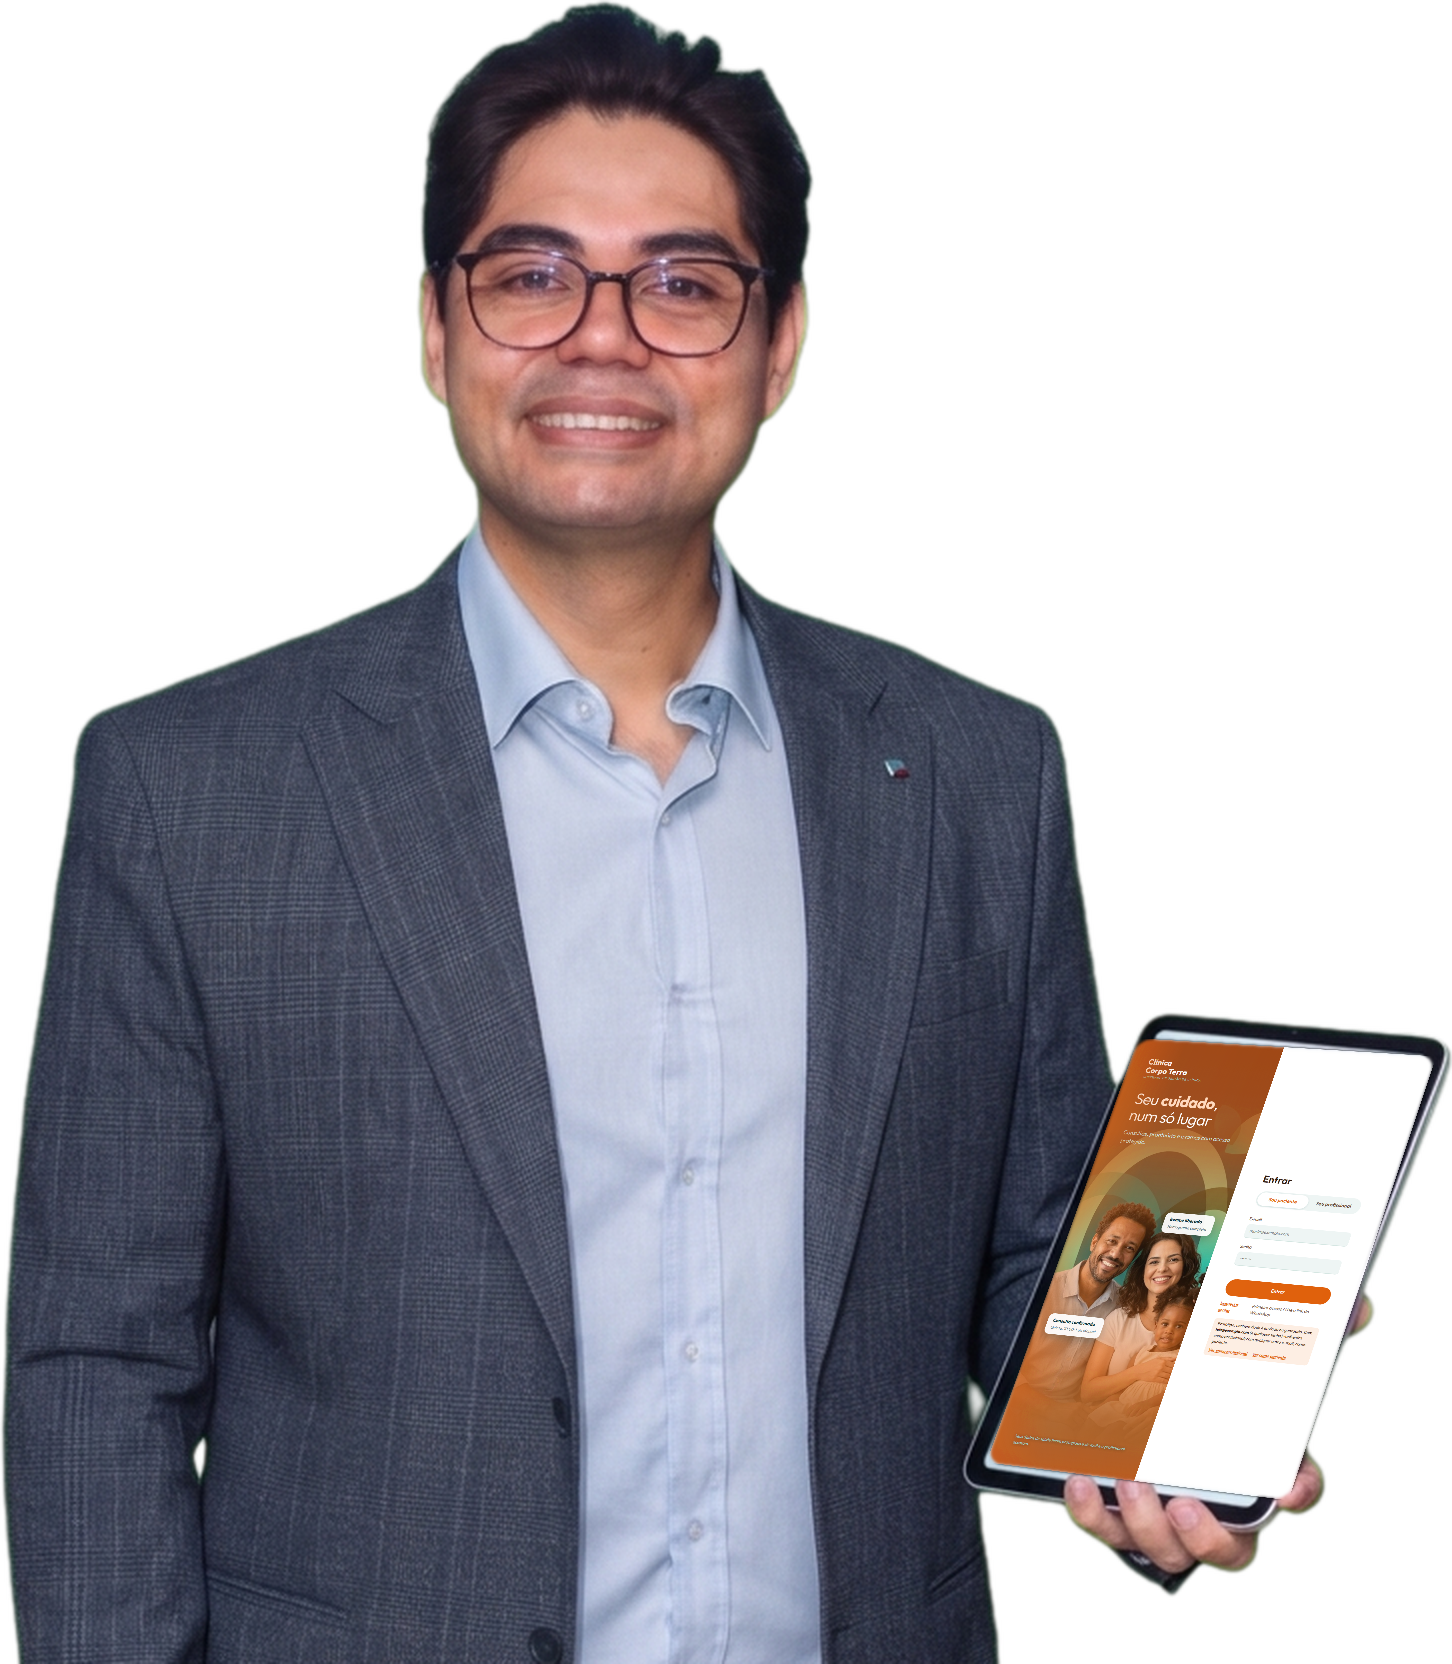
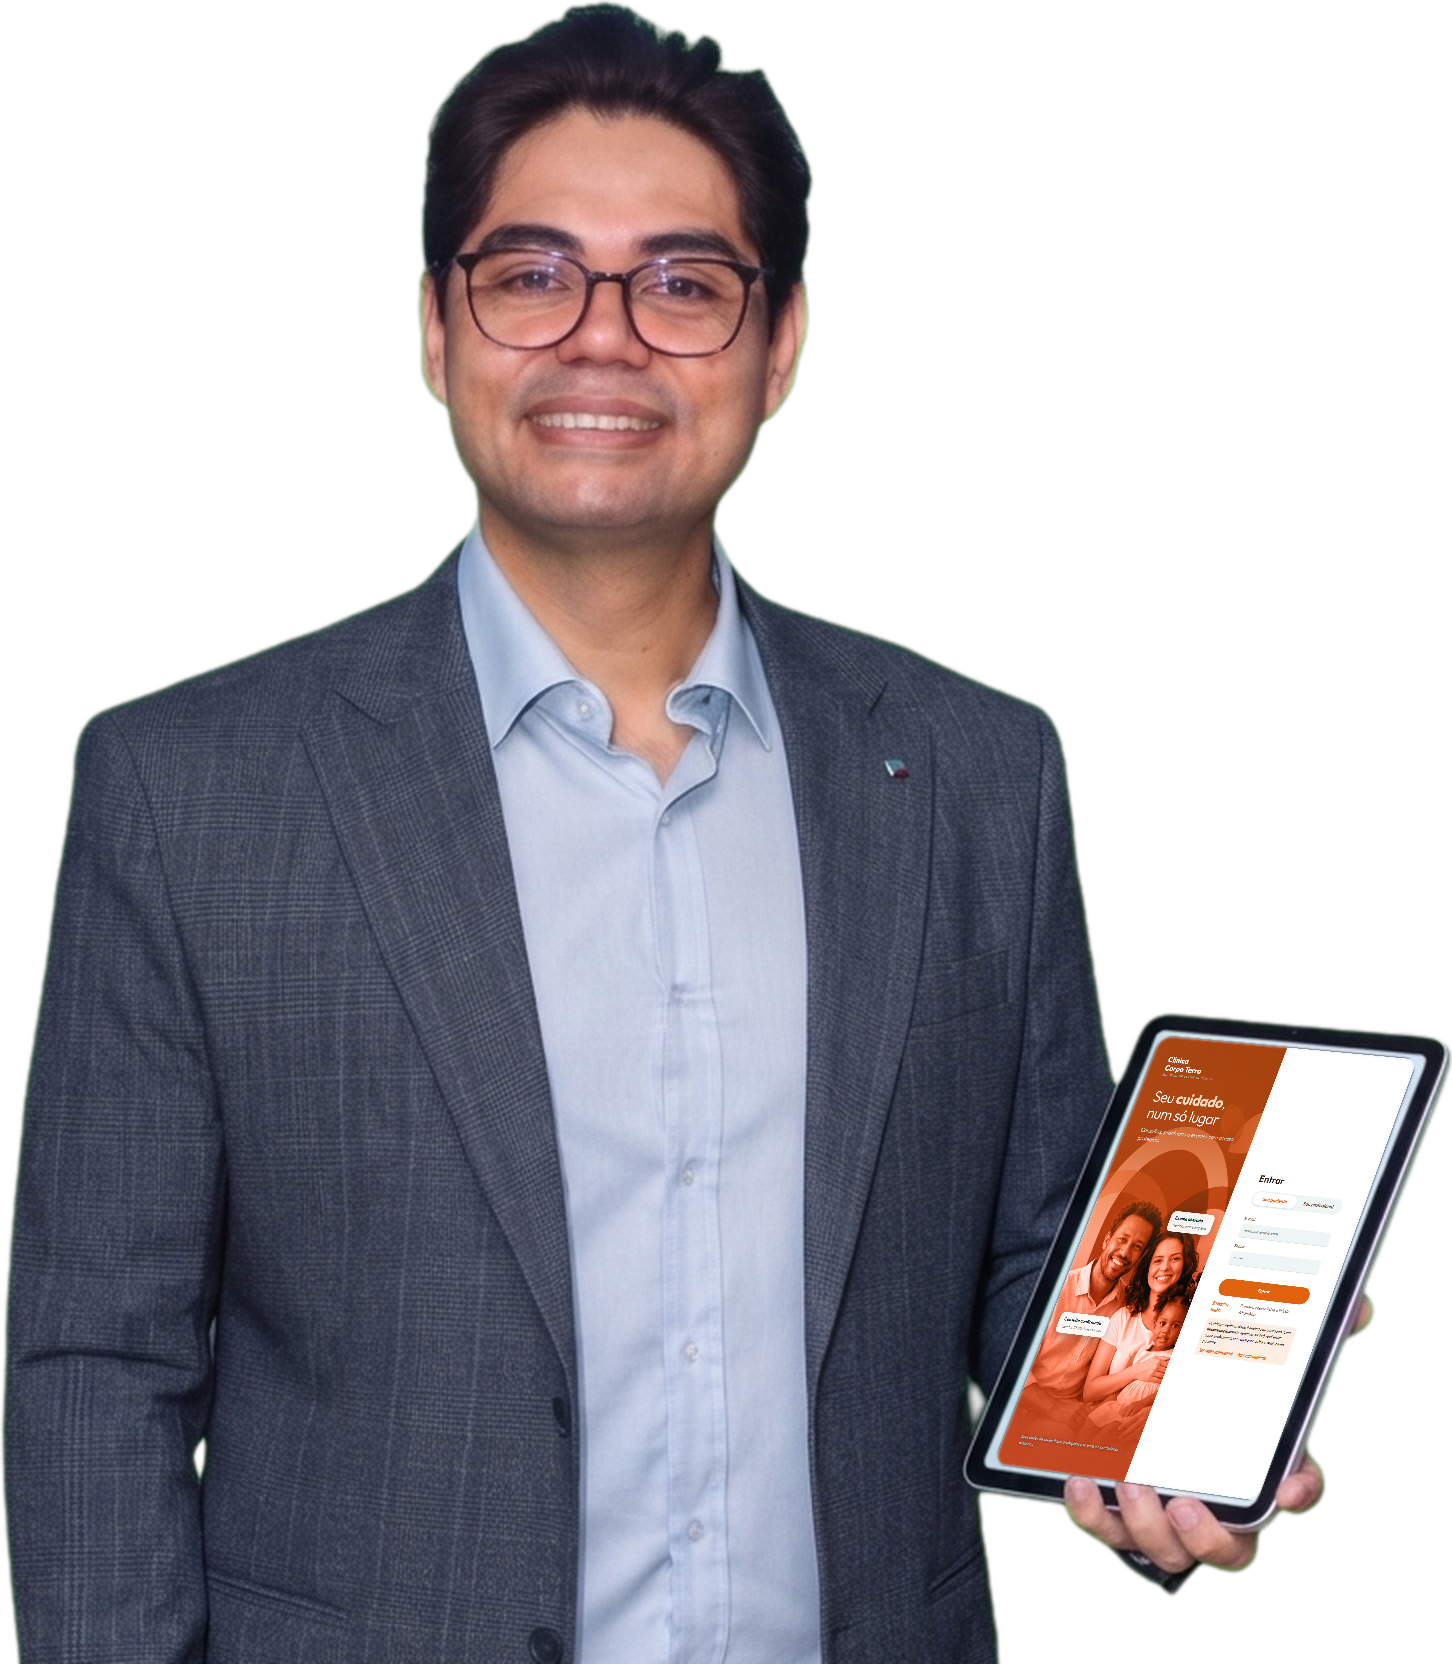
Botao flutuante do WhatsApp, iPad com tela laranja, infografico circular refinado
- WhatsApp flutuante (numero ficticio configuravel em WHATSAPP)
- iPad: tela da clinica em tom unico laranja, encaixada na moldura
- Logo do circulo gira 45 graus ao passar o mouse
- Infografico: divisoria vertical pontilhada, vaos nos aneis, legenda alinhada
- Prints de depoimentos com tracejado mais fino

Changed region(s): [[0.6818, 0.625, 0.9607, 0.9062], [0.9607, 0.625, 0.9917, 0.6875]]

diff --git a/index.html b/index.html
@@ -229,7 +229,7 @@ h2 b,h1 b{font-weight:700;color:var(--brand)}
 .tprint:hover{box-shadow:0 20px 44px rgba(224,96,10,.34);transform:translateY(-4px)}
 .tprint img{width:100%;height:100%;object-fit:cover;object-position:top;display:block}
 .tprint .tvazio{display:none}
-.tprint.vazio{background:repeating-linear-gradient(45deg,#fdf1e9,#fdf1e9 12px,#fbe5d7 12px,#fbe5d7 24px);border-color:rgba(224,96,10,.5);border-style:dashed}
+.tprint.vazio{background:repeating-linear-gradient(45deg,#fdf1e9,#fdf1e9 12px,#fbe5d7 12px,#fbe5d7 24px);border-color:rgba(224,96,10,.5);border-style:dashed;border-width:1.5px}
 .tprint.vazio .tvazio{display:grid;place-items:center;height:100%;text-align:center;font-weight:600;color:var(--ink);padding:18px;gap:4px;align-content:center}
 .tprint.vazio .tvazio small{display:block;font-weight:400;font-size:12px;color:var(--muted);word-break:break-all}
 @media(max-width:900px){.tvideos{grid-template-columns:1fr;max-width:340px;margin-left:auto;margin-right:auto}}
@@ -332,6 +332,28 @@ section.alt>.wrap>.eyebrow:first-child{}
 /* pagamento: abaixo do card */
 .paywith{border-top:0!important;margin:26px auto 0;padding-top:0!important;justify-content:center;color:var(--muted)!important;font-size:15px}
 .paywith img{height:34px;width:auto}
+.ohub img{transition:transform .55s cubic-bezier(.34,1.4,.5,1);transform-origin:50% 50%;cursor:pointer}
+.ohub:hover img,.ohub img:hover{transform:rotate(45deg)}
+/* divisoria vertical pontilhada + vao nas linhas do circulo */
+.odiv{position:absolute;left:50%;top:0;bottom:0;width:0;border-left:3px dotted rgba(224,96,10,.65);transform:translateX(-50%);z-index:0}
+.oring,.oring2{-webkit-mask-image:conic-gradient(transparent 0 7deg,#000 7deg 173deg,transparent 173deg 187deg,#000 187deg 353deg,transparent 353deg 360deg);mask-image:conic-gradient(transparent 0 7deg,#000 7deg 173deg,transparent 173deg 187deg,#000 187deg 353deg,transparent 353deg 360deg)}
+.oring{animation:none!important}
+.ohub{z-index:2}.onode{z-index:3}
+@media(max-width:1000px){.odiv{display:none}}
+/* legenda alinhada as duas metades */
+.olegend{display:grid;grid-template-columns:1fr 1fr;width:min(1060px,100%);margin:26px auto 0;gap:0}
+.olegend span{display:flex;align-items:center;justify-content:center;white-space:nowrap}
+.olegend .lg-ok{justify-content:center;padding-right:30px}
+.olegend .lg-ko{justify-content:center;padding-left:60px}
+@media(max-width:1000px){.olegend{grid-template-columns:1fr;gap:10px}.olegend span{white-space:normal;padding:0!important}}
+/* whatsapp flutuante */
+.wpp{position:fixed;right:22px;bottom:24px;z-index:70;width:62px;height:62px;border-radius:50%;background:#25d366;display:grid;place-items:center;box-shadow:0 10px 26px rgba(18,140,70,.45);text-decoration:none;transition:transform .2s,box-shadow .2s}
+.wpp:hover{transform:scale(1.08);box-shadow:0 14px 34px rgba(18,140,70,.6)}
+.wpp-tip{position:absolute;right:76px;top:50%;transform:translateY(-50%) translateX(8px);white-space:nowrap;background:#fff;color:#111;font:600 15px/1 var(--font);padding:12px 16px;border-radius:12px;box-shadow:0 10px 26px rgba(0,0,0,.18);opacity:0;pointer-events:none;transition:opacity .2s,transform .2s}
+.wpp:hover .wpp-tip,.wpp:focus-visible .wpp-tip{opacity:1;transform:translateY(-50%) translateX(0)}
+@media(prefers-reduced-motion:no-preference){.wpp::before{content:"";position:absolute;inset:0;border-radius:50%;background:#25d366;z-index:-1;animation:wppring 2.4s ease-out infinite}}
+@keyframes wppring{0%{transform:scale(1);opacity:.55}100%{transform:scale(1.75);opacity:0}}
+@media(max-width:900px){.wpp{width:56px;height:56px;right:16px;bottom:96px}.wpp svg{width:30px;height:30px}.wpp-tip{display:none}}
 /* garantia: sem caixa, escudo em cima e texto embaixo */
 #oferta .guarantee{display:flex;flex-direction:column;align-items:center;text-align:center;background:none;border:0;box-shadow:none;padding:10px 0 0;gap:6px;margin-top:44px}
 #oferta .guarantee>div:last-child{max-width:720px}
@@ -582,6 +604,7 @@ html,body{overflow-x:clip}
   <h2>Para quem é, e <b>quem precisa de avaliação antes</b></h2>
   <div class="olegend"><span class="lg-ok"><i></i>Este método é para você que</span><span class="lg-ko"><i></i>Procure avaliação profissional antes se</span></div>
   <div class="orbit" id="orbit">
+    <div class="odiv" aria-hidden="true"></div>
     <div class="oring" aria-hidden="true"></div>
     <div class="oring2" aria-hidden="true"></div>
     <div class="ohub"><img src="imgs/marca/icone-laranja.svg" alt="" width="54" height="51"><b>Antes de comprar</b><small>Veja se faz sentido para você</small></div>
@@ -721,6 +744,7 @@ html,body{overflow-x:clip}
   <div class="fbottom">© 2026 Desparasitação Descomplicada · Luís Manoel. Todos os direitos reservados. Este site não é afiliado ao Facebook, Instagram ou Google.</div>
 </div></footer>
 
+<a class="wpp" id="wpp" href="https://wa.me/5511999999999" target="_blank" rel="noopener" aria-label="Falar no WhatsApp"><span class="wpp-tip">Fale conosco no WhatsApp</span><svg viewBox="0 0 24 24" width="34" height="34" fill="#fff" aria-hidden="true"><path d="M17.472 14.382c-.297-.149-1.758-.867-2.03-.967-.273-.099-.471-.148-.67.15-.197.297-.767.966-.94 1.164-.173.199-.347.223-.644.075-.297-.15-1.255-.463-2.39-1.475-.883-.788-1.48-1.761-1.653-2.059-.173-.297-.018-.458.13-.606.134-.133.298-.347.446-.52.149-.174.198-.298.298-.497.099-.198.05-.371-.025-.52-.075-.149-.669-1.612-.916-2.207-.242-.579-.487-.5-.669-.51-.173-.008-.371-.01-.57-.01-.198 0-.52.074-.792.372-.272.297-1.04 1.016-1.04 2.479 0 1.462 1.065 2.875 1.213 3.074.149.198 2.096 3.2 5.077 4.487.709.306 1.262.489 1.694.625.712.227 1.36.195 1.871.118.571-.085 1.758-.719 2.006-1.413.248-.694.248-1.289.173-1.413-.074-.124-.272-.198-.57-.347m-5.421 7.403h-.004a9.87 9.87 0 01-5.031-1.378l-.361-.214-3.741.982.998-3.648-.235-.374a9.86 9.86 0 01-1.51-5.26c.001-5.45 4.436-9.884 9.888-9.884 2.64 0 5.122 1.03 6.988 2.898a9.825 9.825 0 012.893 6.994c-.003 5.45-4.437 9.884-9.885 9.884m8.413-18.297A11.815 11.815 0 0012.05 0C5.495 0 .16 5.335.157 11.892c0 2.096.547 4.142 1.588 5.945L.057 24l6.305-1.654a11.882 11.882 0 005.683 1.448h.005c6.554 0 11.89-5.335 11.893-11.893a11.821 11.821 0 00-3.48-8.413z"/></svg></a>
 <div class="sticky"><span>Desparasitação Descomplicada<br><small style="font-weight:300;color:#9fd0cb">R$ 97 · acesso imediato</small></span><a class="btn" data-cta href="#oferta">Quero começar</a></div>
 
 <script>
@@ -732,8 +756,11 @@ html,body{overflow-x:clip}
 var CHECKOUT = '';            // ex.: 'https://pay.kiwify.com.br/XXXXXXX'
 var VSL_EMBED = '';           // ex.: 'https://www.youtube.com/embed/ID?rel=0&autoplay=1'
 var GARANTIA_DIAS = 7;
+var WHATSAPP = '5511999999999';   // FICTICIO: troque pelo numero real, com codigo do pais e DDD (ex.: 5531999998888)
+var WHATSAPP_MSG = 'Ola! Vim pela pagina do metodo Desparasitacao Descomplicada e gostaria de tirar uma duvida.';
 
 (function () {
+  var w = document.getElementById('wpp'); if (w && WHATSAPP) w.href = 'https://wa.me/' + WHATSAPP + '?text=' + encodeURIComponent(WHATSAPP_MSG);
   var g = document.getElementById('gdias'); if (g) g.textContent = GARANTIA_DIAS;
   document.querySelectorAll('.g-t').forEach(function (e) { e.textContent = 'Garantia de ' + GARANTIA_DIAS + ' dias'; });
   var url = CHECKOUT;
